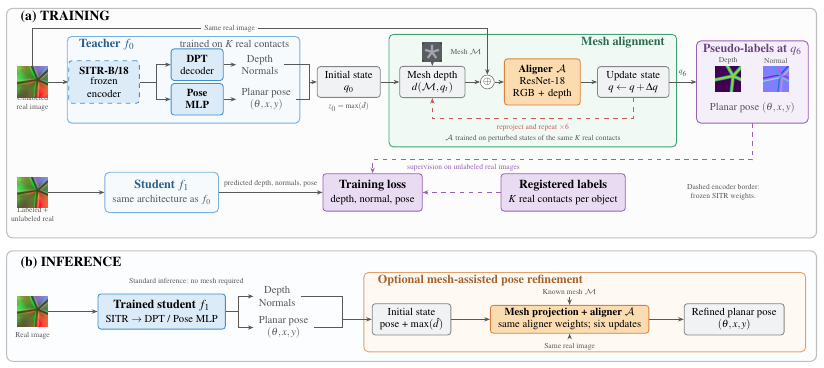
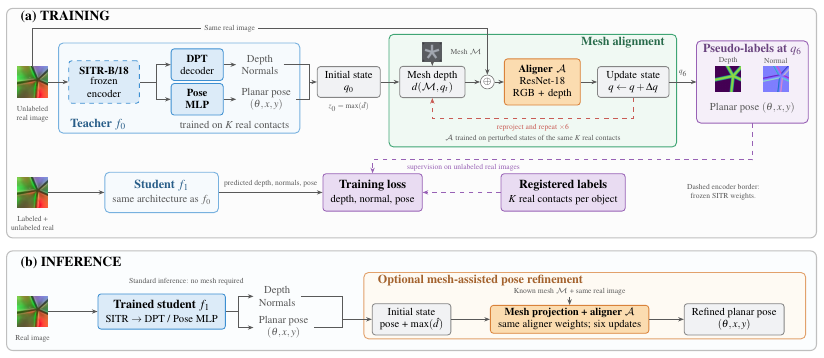
paper: Fig. 1 teacher title at box bottom, captions anchored under thumbnails, encoder clear of box edge, single refinement input label

Changed region(s): [[0.0, 0.0307, 1.0, 0.9832], [0.8192, 0.4916, 0.9405, 0.5531]]

diff --git a/paper_RoboSoft/architecture_diagram_training_inference.tex b/paper_RoboSoft/architecture_diagram_training_inference.tex
@@ -35,16 +35,16 @@
 \begin{tikzpicture}
 % Phase regions.
 \filldraw[fill=black!1,draw=black!25,rounded corners=4pt,line width=.7pt] (-.15,2.8) rectangle (18.55,8.1);
-\filldraw[fill=bluefill!12,draw=black!25,rounded corners=4pt,line width=.7pt] (-.15,-.05) rectangle (18.55,2.5);
+\filldraw[fill=bluefill!12,draw=black!25,rounded corners=4pt,line width=.7pt] (-.15,.2) rectangle (18.55,2.5);
 \node[font=\small\bfseries,anchor=west] at (.05,7.9) {(a) TRAINING};
 \node[font=\small\bfseries,anchor=west] at (.05,2.23) {(b) INFERENCE};
 
 % ---- Row 1: teacher -> initial state -> mesh alignment -> pseudo-labels ----
 \node[thumb] (unlab) at (.45,6.4) {\thumbimg{frame.png}};
-\node[note,font=\tiny] at (.45,5.9) {Unlabeled\\real image};
-\filldraw[fill=bluefill!25,draw=blueedge!70,rounded corners=3pt,line width=.6pt] (1.25,5.45) rectangle (6.62,7.45);
-\node[font=\footnotesize\bfseries,text=blueedge!65!black,anchor=west] at (1.4,7.27) {Teacher $f_0$};
-\node[note,anchor=east] at (6.5,7.27) {trained on $K$ real contacts};
+\node[note,font=\tiny,anchor=north,yshift=-2pt] at (unlab.south) {Unlabeled\\real image};
+\filldraw[fill=bluefill!25,draw=blueedge!70,rounded corners=3pt,line width=.6pt] (1.05,5.22) rectangle (6.62,7.3);
+\node[font=\footnotesize\bfseries,text=blueedge!65!black,anchor=west] at (1.2,5.42) {Teacher $f_0$};
+\node[note,anchor=east] at (6.5,5.42) {trained on $K$ real contacts};
 \node[net,dashed,font=\scriptsize,text width=1.28cm,minimum height=.7cm] (tenc) at (2.1,6.4) {\textbf{SITR-B/18}\\[-1pt]frozen encoder};
 \node[net,font=\scriptsize,text width=.85cm] (tdpt) at (4.25,6.8) {\textbf{DPT}\\decoder};
 \node[net,font=\scriptsize,text width=.85cm] (tpose) at (4.25,6.0) {\textbf{Pose}\\\textbf{MLP}};
@@ -94,7 +94,7 @@
 
 % ---- Row 2: student (same architecture) trained with true and pseudo labels ----
 \node[thumb] (sf) at (.45,3.85) {\thumbimg{frame.png}};
-\node[note,font=\tiny] at (.45,3.35) {Labeled +\\unlabeled real};
+\node[note,font=\tiny,anchor=north,yshift=-2pt] at (sf.south) {Labeled +\\unlabeled real};
 \node[block,fill=bluefill!25,draw=blueedge!70,rounded corners=3pt,line width=.6pt,minimum width=2.6cm,inner ysep=5pt] (student) at (3.43,3.85) {{\bfseries\color{blueedge!65!black}Student $f_1$}\\{\scriptsize\color{black!65}same architecture as $f_0$}};
 \draw[arrow] (sf) -- (student);
 \node[purple] (loss) at (8.3,3.85) {\textbf{Training loss}\\{\scriptsize depth, normal, pose}};
@@ -108,7 +108,7 @@
 % ---- Inference: only the student is required; the right-hand branch is optional ----
 \begin{scope}[shift={(0,.25)}]
 \node[thumb] (if) at (.45,.85) {\thumbimg{frame.png}};
-\node[note,font=\tiny] at (.45,.3) {Real image};
+\node[note,font=\tiny,anchor=north,yshift=-2pt] at (if.south) {Real image};
 \node[net,minimum width=2.35cm] (deployed) at (3.43,.85) {\textbf{Trained student $f_1$}\\{\scriptsize SITR $\to$ DPT / Pose MLP}};
 \draw[arrow] (if) -- (deployed);
 \node[note,anchor=west] (idense) at (5.55,1.2) {Depth\\Normals};
@@ -119,17 +119,15 @@
 \draw[arrow] (ifork) |- (ipose.west);
 \node[note,font=\tiny] at (4.0,1.54) {Standard inference: no mesh required};
 
-\draw[draw=orangeedge!75,fill=orangefill!15,rounded corners=3pt,line width=.6pt] (8.1,-.08) rectangle (18.3,1.75);
+\draw[draw=orangeedge!75,fill=orangefill!15,rounded corners=3pt,line width=.6pt] (8.1,.22) rectangle (18.3,1.75);
 \node[font=\footnotesize\bfseries,text=orangeedge!75!black,anchor=west] at (8.3,1.56) {Optional mesh-assisted pose refinement};
 \node[small] (iq) at (9.2,.67) {Initial state\\pose + $\max(\hat d)$};
 \draw[wire] (idense.east) -- (7.6,1.2) -- (7.6,.48) -- (ipose.east);
 \draw[arrow] (7.6,.67) -- (iq.west);
 \node[orange,font=\scriptsize,inner ysep=2pt,minimum width=2.85cm] (refine) at (12.85,.67) {\textbf{Mesh projection + aligner $\mathcal{A}$}\\same aligner weights; six updates};
 \draw[arrow] (iq) -- (refine);
-\node[note,font=\tiny,fill=orangefill!15,inner sep=1pt] (imesh) at (12.85,1.3) {Known mesh $\mathcal{M}$};
-\node[note,font=\tiny] (iframe) at (12.85,.04) {Same real image};
+\node[note,font=\tiny,fill=orangefill!15,inner sep=1pt] (imesh) at (12.85,1.3) {Known mesh $\mathcal{M}$ + same real image};
 \draw[arrow] (imesh) -- (refine);
-\draw[arrow] (iframe) -- (refine);
 \node[small] (refined) at (16.65,.67) {Refined planar pose\\$(\theta,x,y)$};
 \draw[arrow] (refine) -- (refined);
 \end{scope}
